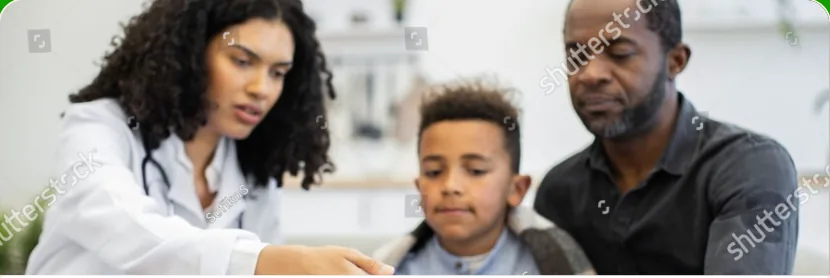
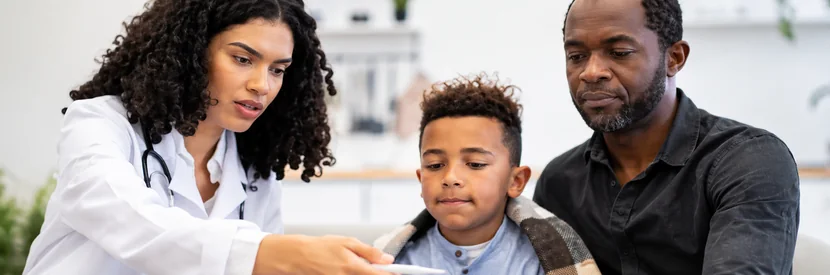
Cards Allegra D e Febre na Pediatria: imagens sem marca d'água
Troca das prévias da Shutterstock (2715886517 e 2537922789) pelas imagens enviadas pelo cliente,
nos cards de "Conteúdo adicional" (830x275) e nas miniaturas da barra lateral (273x273).
Corte limpo: os cantos arredondados vêm do CSS, então sai o canto verde que estava no recorte antigo.

diff --git a/README.md b/README.md
@@ -206,8 +206,6 @@ Até lá a Opella Sans é usada no lugar (`--font-allegra` em `base.css`). Ao re
   das páginas das marcas ainda não têm arquivo/URL.
 - Lorem ipsum (do próprio layout): só "Informações Regulatórias" do Os-Cal.
 - `/os-cal/saude-ossea-feminina` ainda não tem link de entrada: definir de onde é acessada.
-- Prévias da Shutterstock com marca d'água — trocar pela versão licenciada: card "Allegra D®"
-  (stock-photo-…-2715886517) e card "Febre na Pediatria" (stock-photo-…-2537922789).
 - Os-Cal: no layout o rótulo "DOCUMENTO CIENTÍFICO" do destaque sai azul sobre azul (ilegível);
   usado um lilás claro (`--feature-label` em themes.css).
 - Novalgina: no .ai o ícone da busca é roxo (herdado do Os-Cal); mantido o laranja da Opella.
